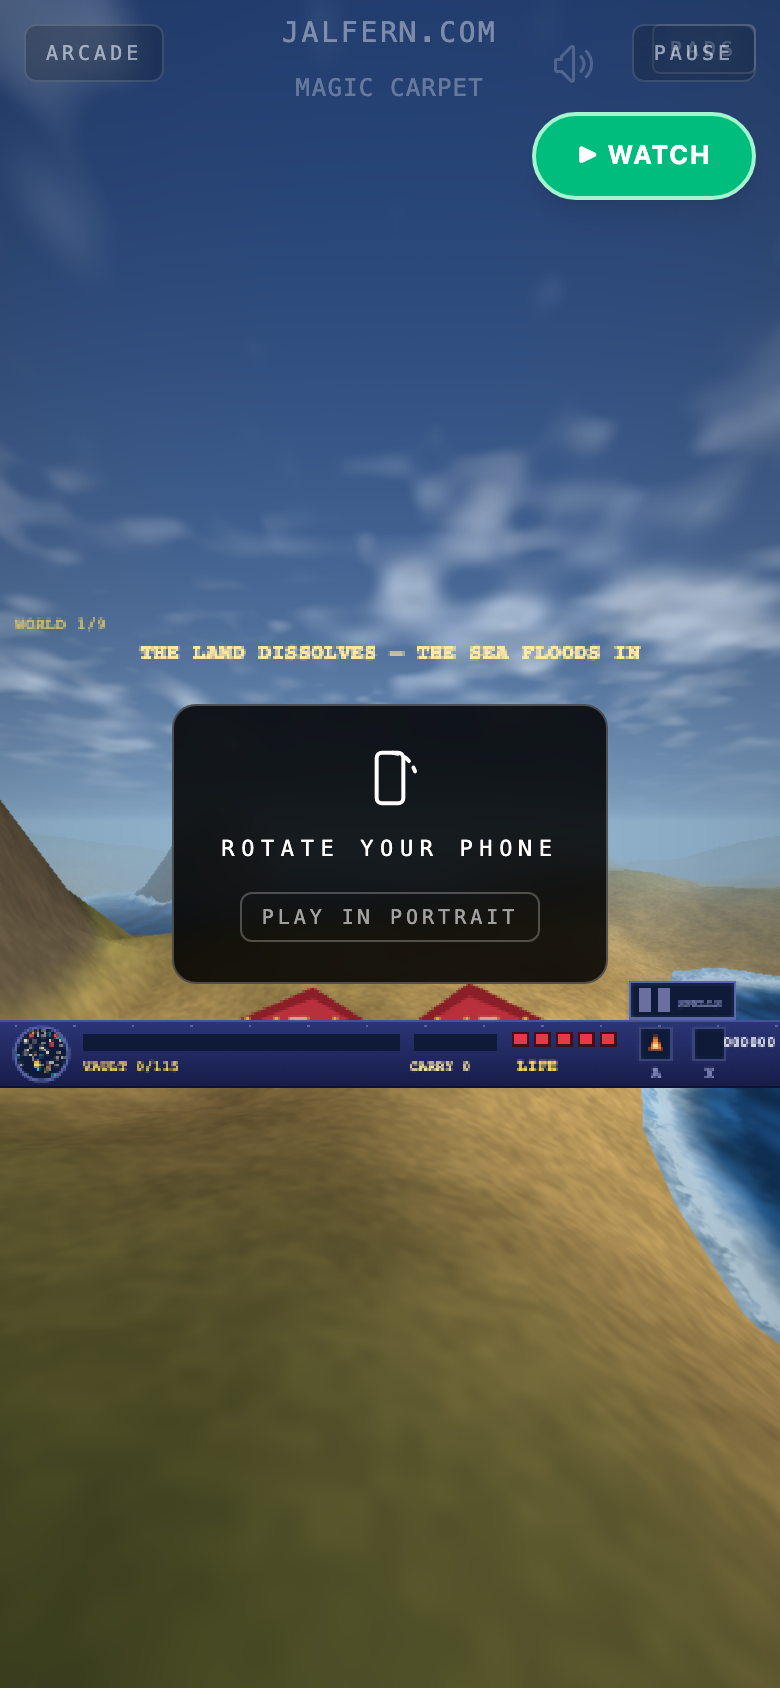
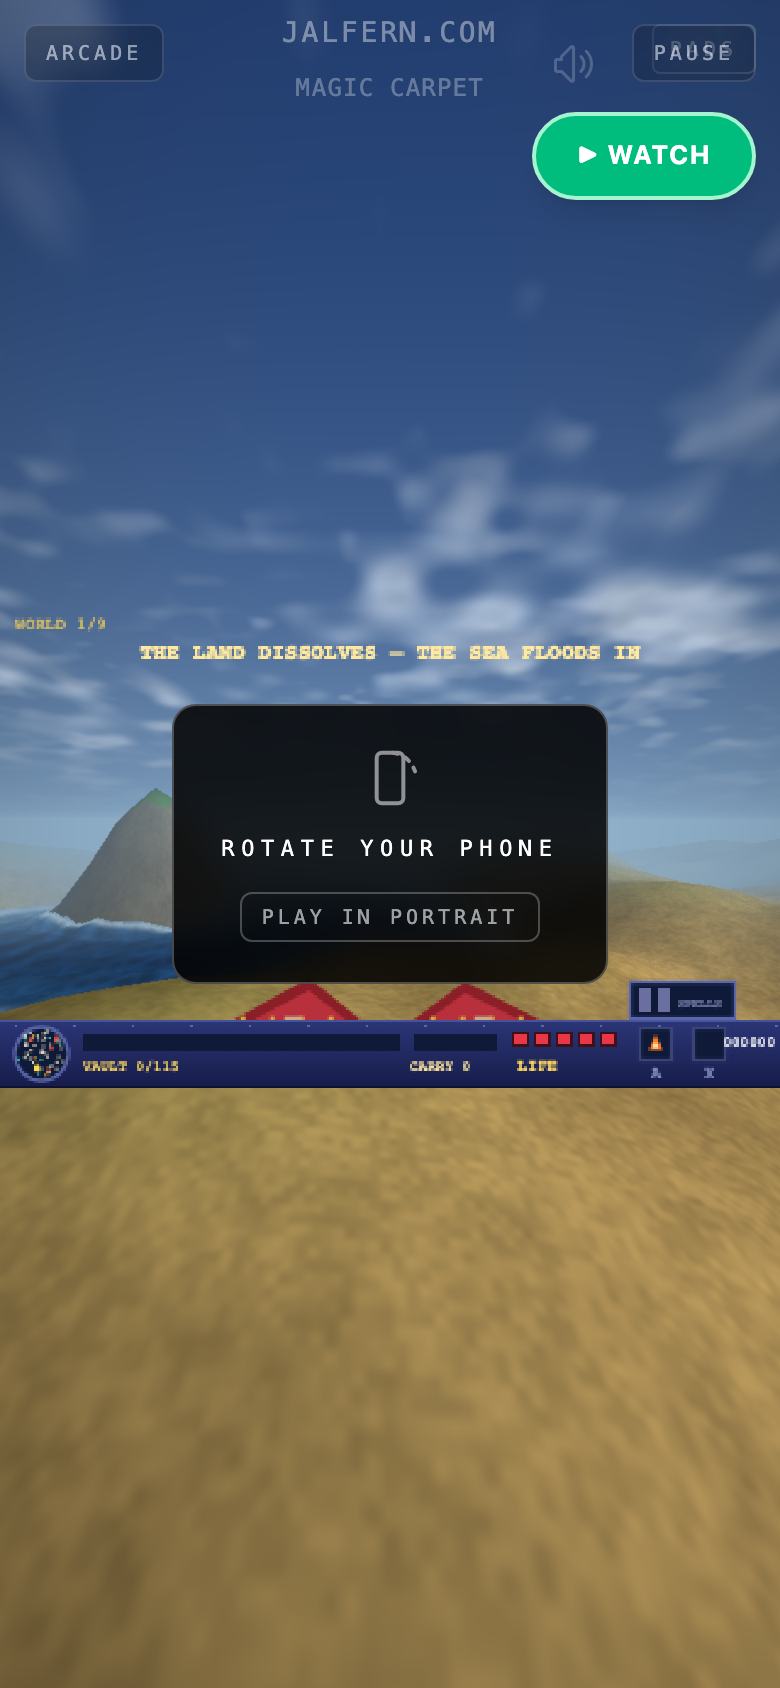
MAGIC CARPET #1790 S2: carpetcheck anaglyph gates (mono baseline, off-axis peak w/ left-eye polarity, depth spread, flat HUD pips, V + persistence + ?stereo=1, restore) + README notes; IPD mutant proven red

diff --git a/src/games/MagicCarpet/renderer.js b/src/games/MagicCarpet/renderer.js
@@ -568,7 +568,7 @@ void main(){
     // ~10u away, the castle tens of units) this is a strong-but-comfortable pop:
     // ~9 px of parallax at arm's length, ~1 px at the horizon — parallel view,
     // converged at infinity, the same cheat every stereo card of the era used.
-    const IPD = 0.30
+    const IPD = 0.60
     let stereo = false
 
     // ---- CPU particle pool → instanced quads

diff --git a/src/games/MagicCarpet/README.md b/src/games/MagicCarpet/README.md
@@ -351,7 +351,12 @@ see item 5).
 - No anaglyph/stereo mode. **Partially closed by #1746 item 7:** rival-cast
   cues now pan to the caster's side (see the #1746 section) — the world bed,
   creatures and lightning are still center, and there is no true HRTF.
-  `?` pause carries the rules instead.
+  `?` pause carries the rules instead. **Partially closed by #1790:** red/cyan
+  anaglyph ships — the world renders twice from ±0.60u parallel cameras and
+  the post chain combines left→red / right→cyan (bloom is shared; the HUD
+  stays flat mono). `V` toggles, `?stereo=1` opens on a fresh link, the
+  choice persists. Still open: LCD-shutter/interlace modes, and the
+  audio half (HRTF) of #1746 item 7.
 - Water is shader waves with self-shadowing, sun-linked sparkle, dithered
   depth bands and foam lace tracing the shoreline — but not the original's
   4-bit palette-cycling wave animation; no underwater view when cratered below sea.
